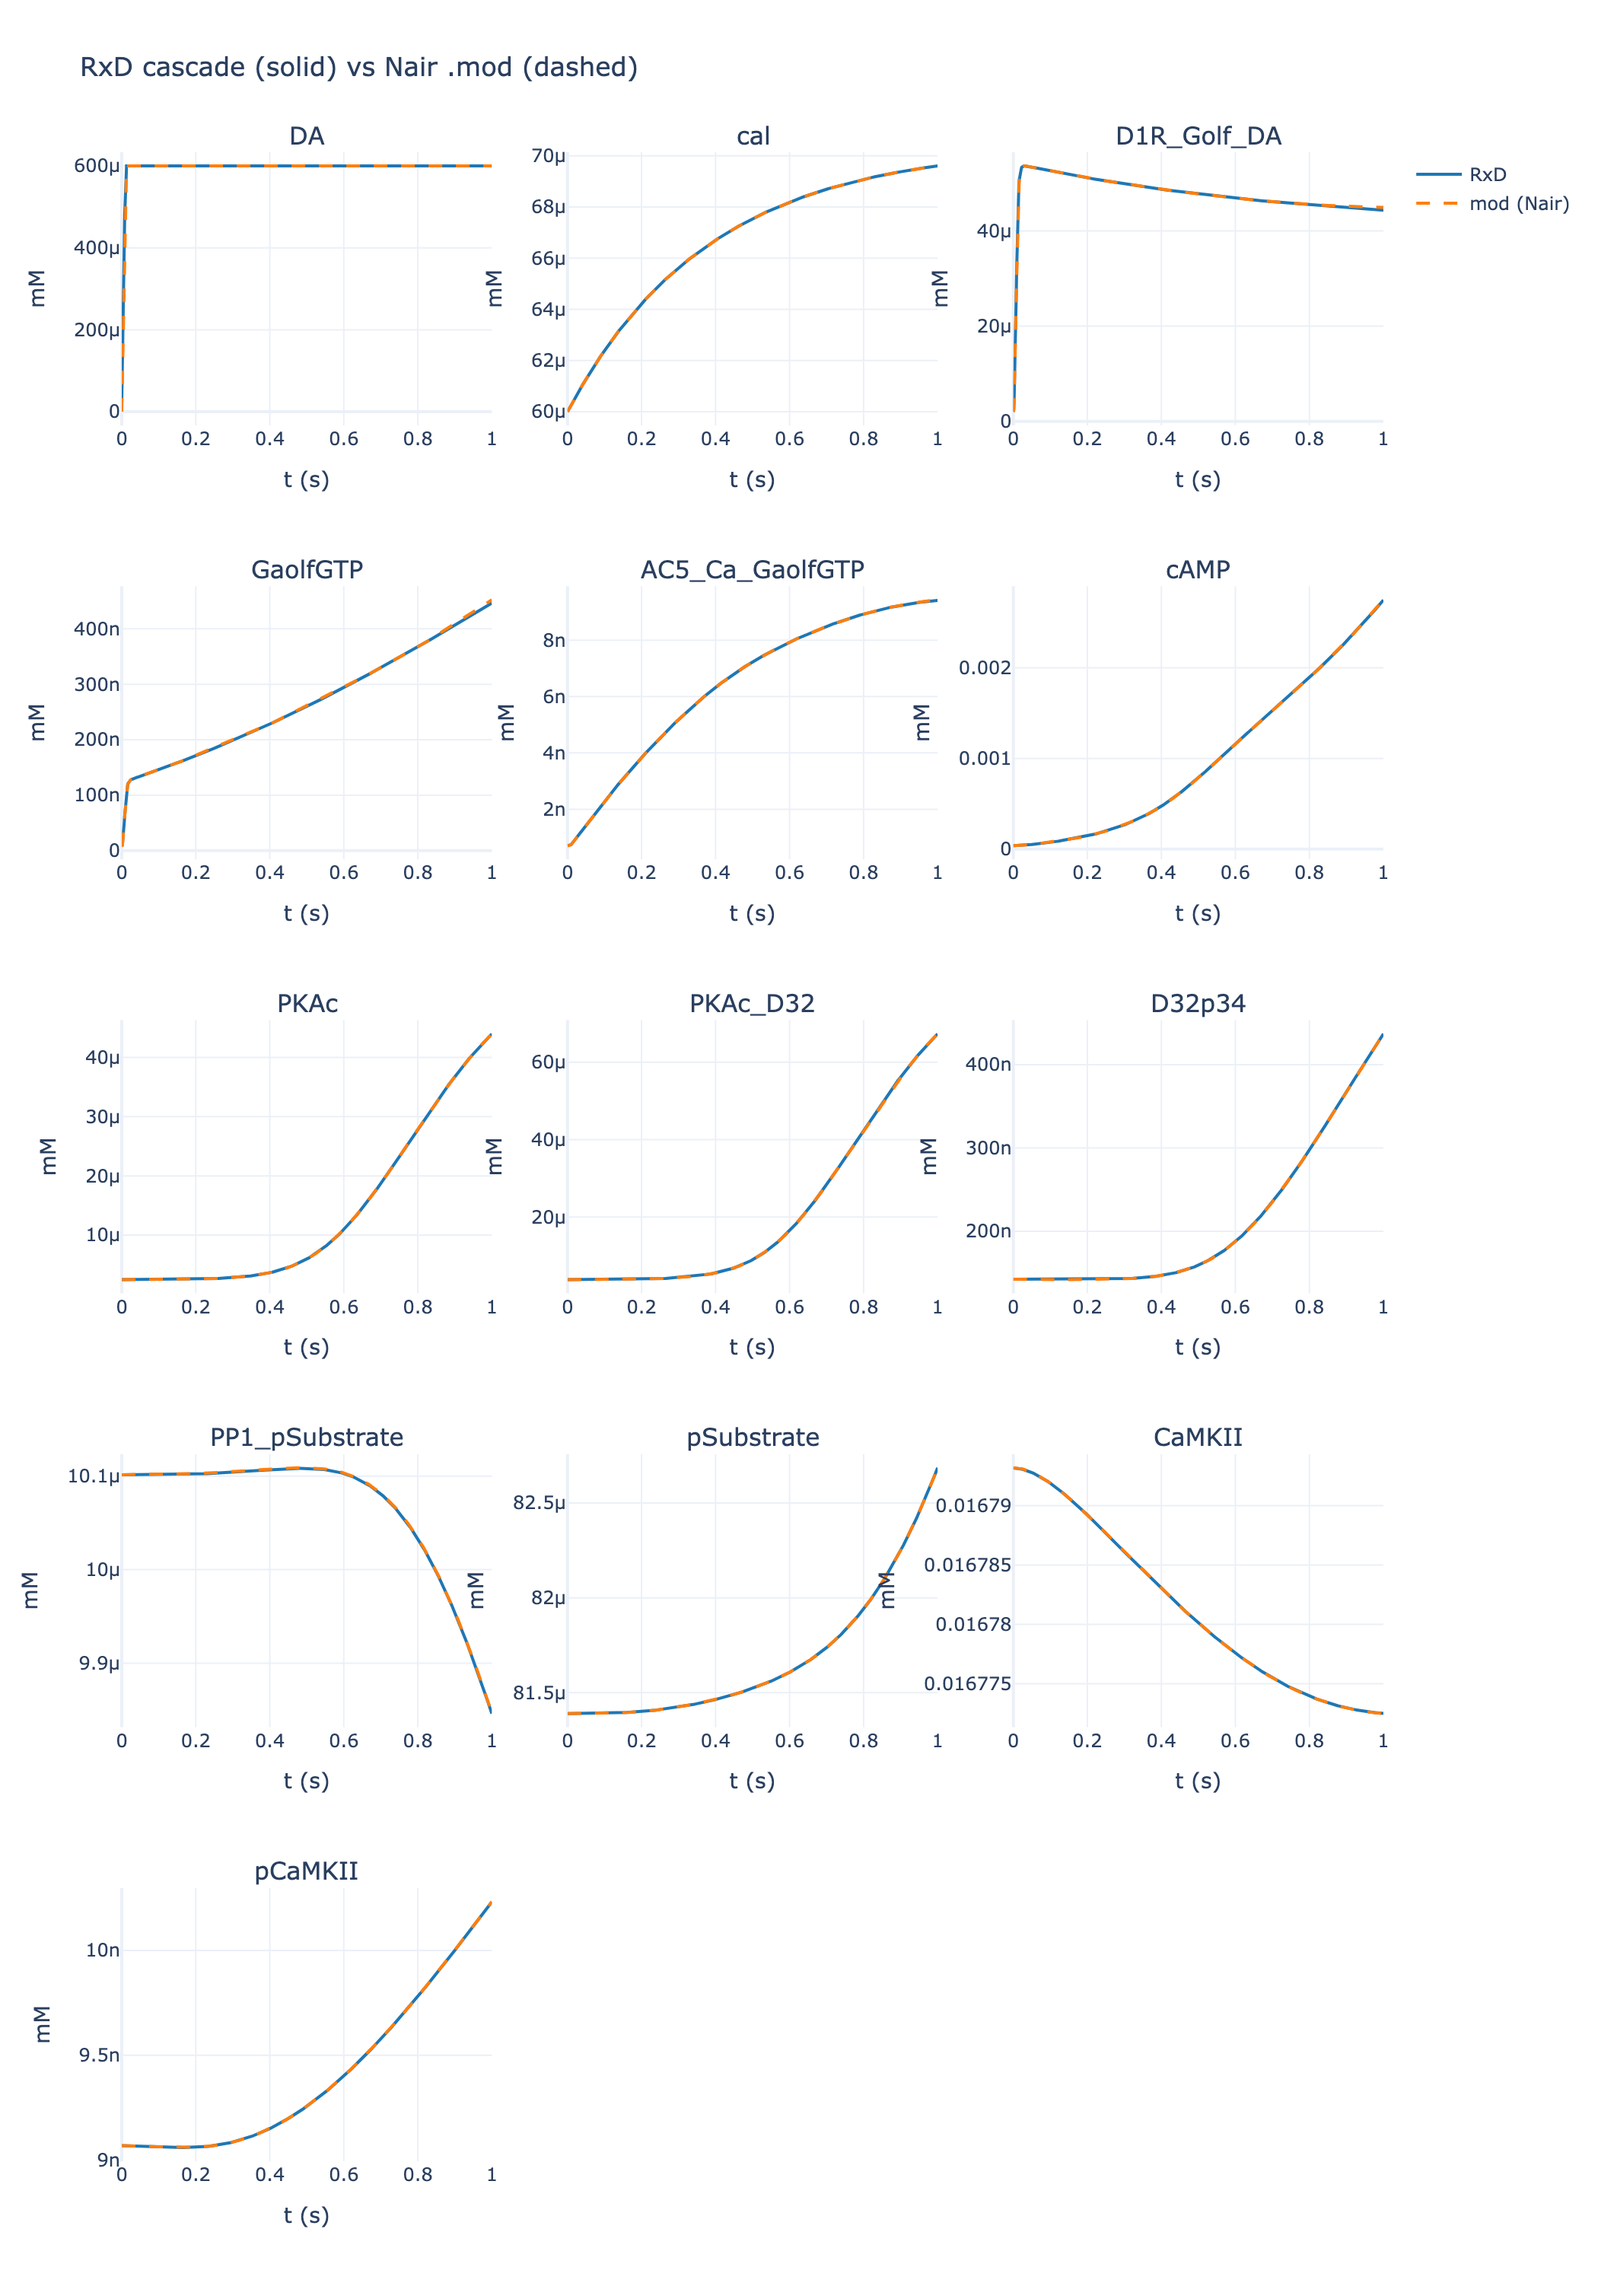
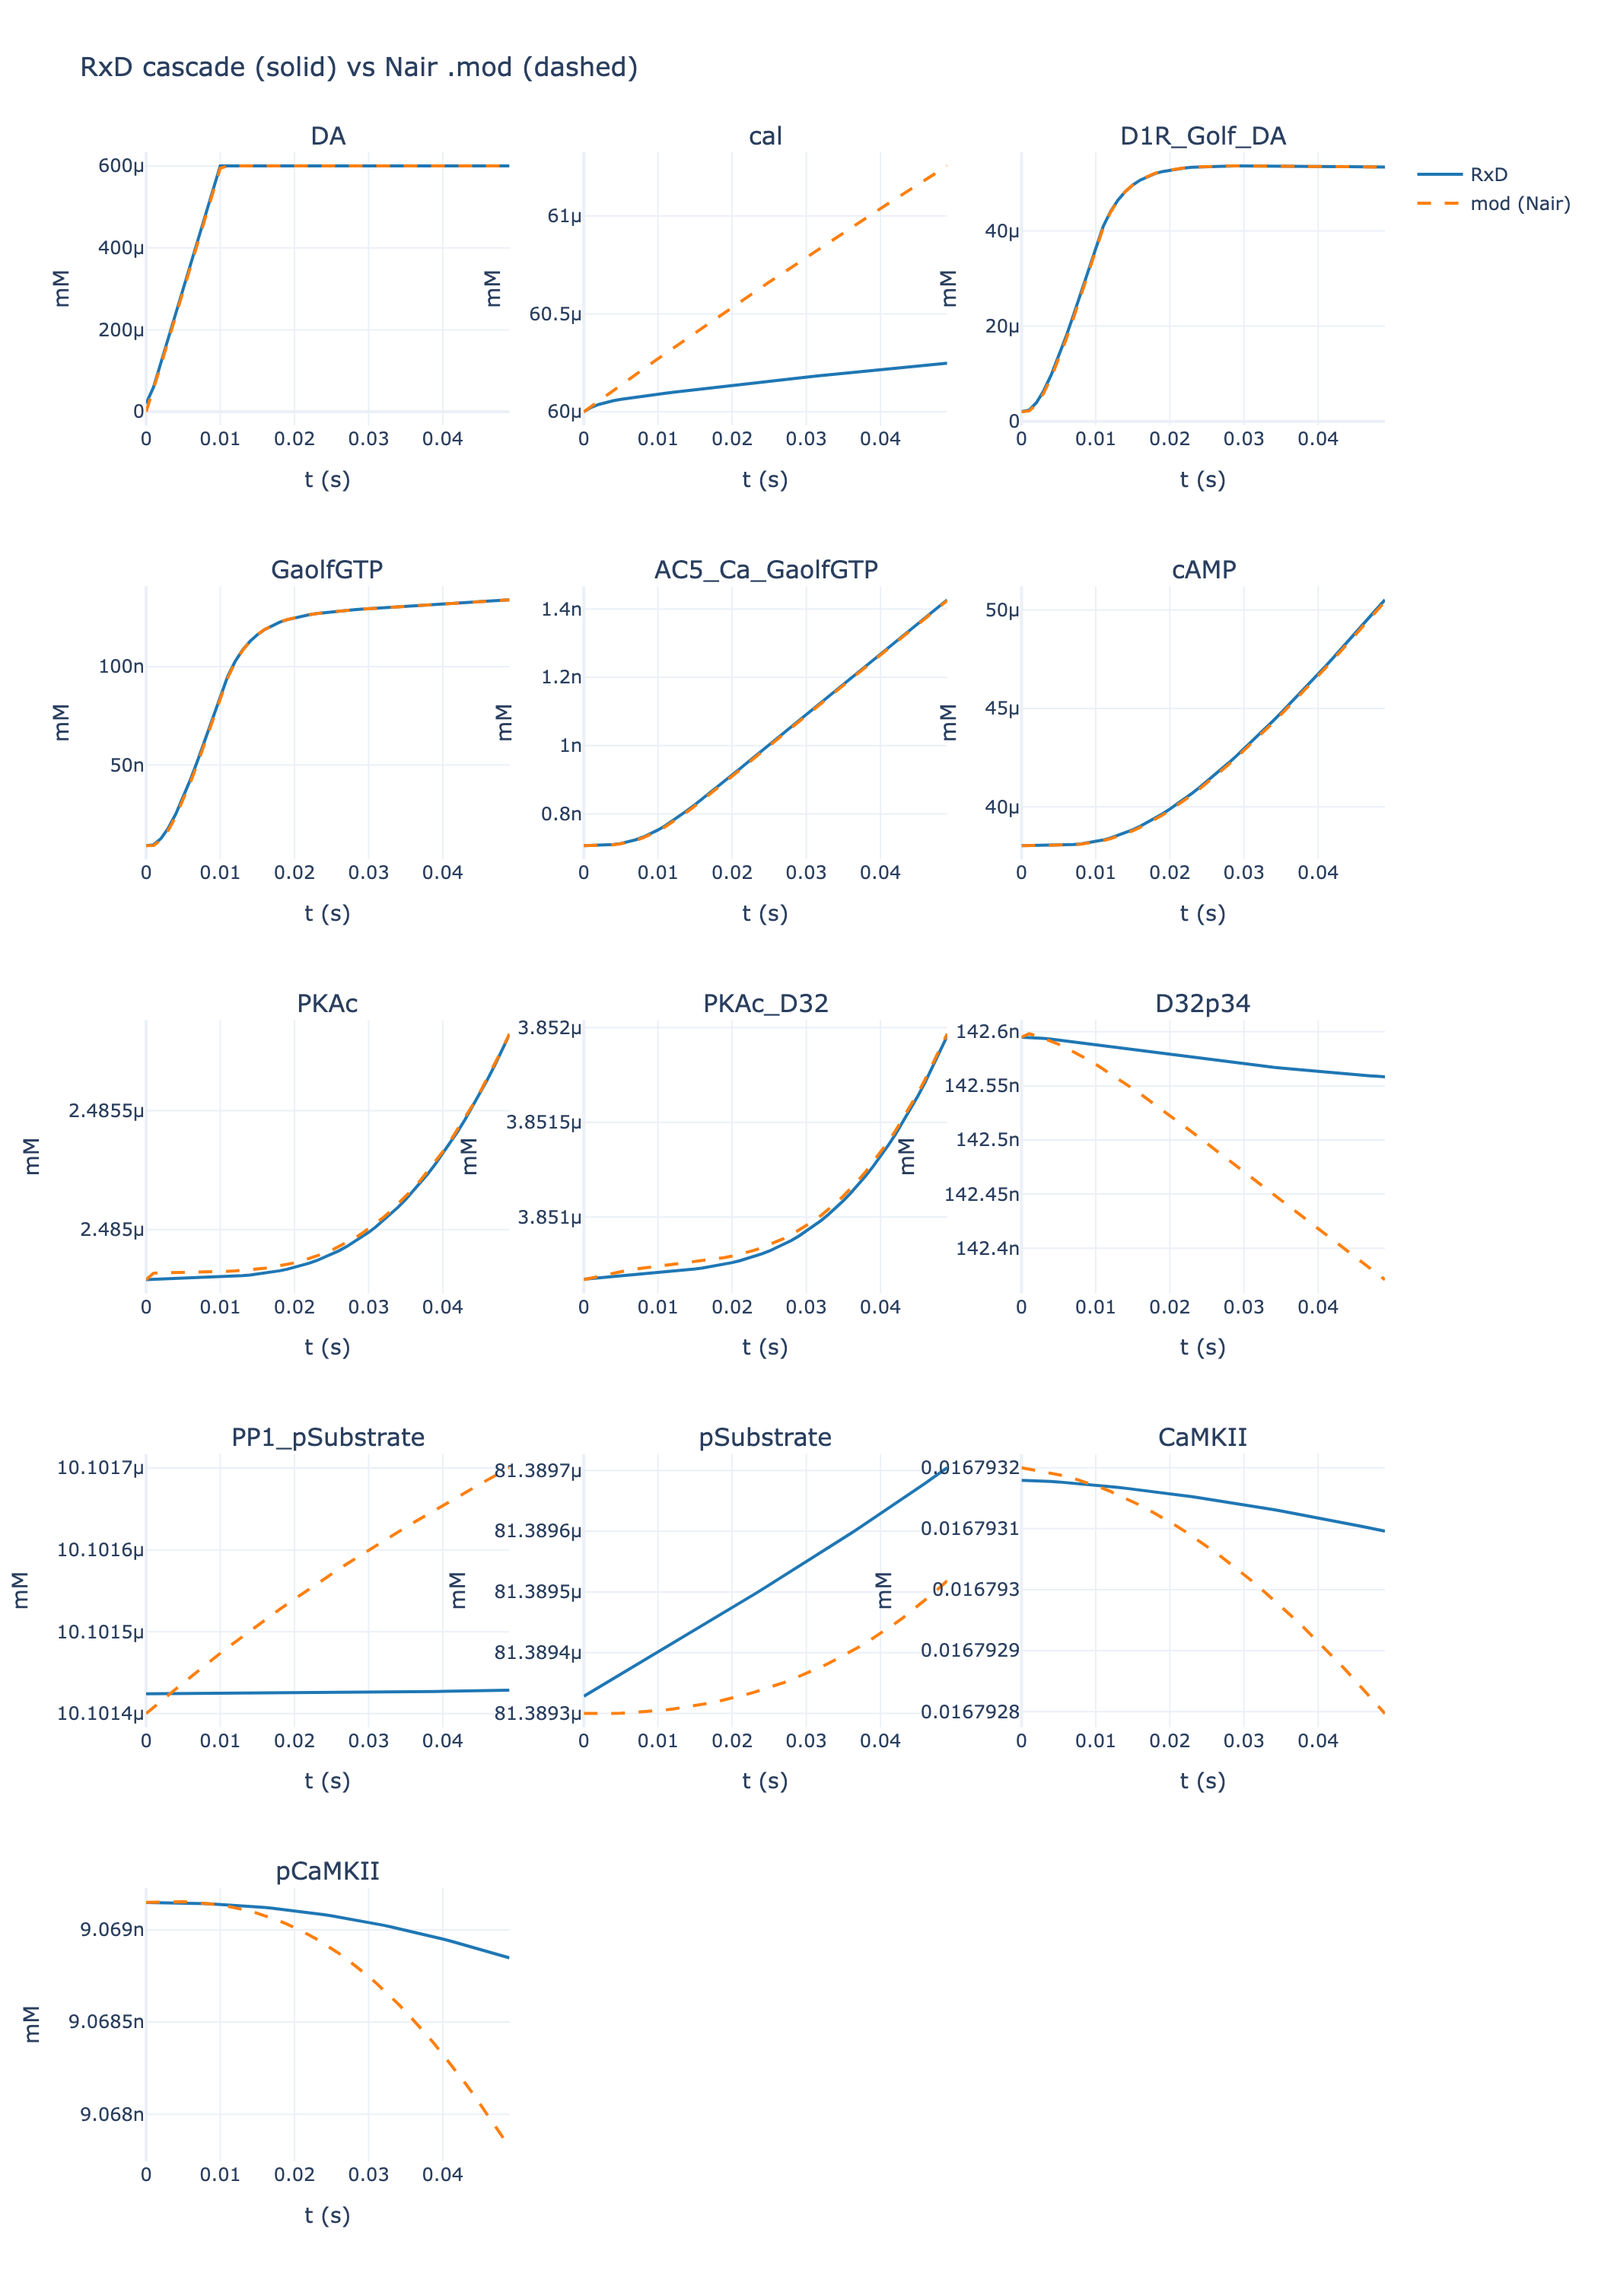
updated README

diff --git a/virtual_experiments/figureS1-mod/setup_networks.py b/virtual_experiments/figureS1-mod/setup_networks.py
@@ -3,9 +3,14 @@
   networks/rxd     — full RxD cascade computes PKAc from bath DA
   networks/mod     — DA+cal RxD bath; Nair_2016_optimized.mod (METHOD euler)
   networks/mod_di  — DA+cal RxD bath; Nair_2016_optimized_di.mod (derivimplicit)
-  networks/mod_ptr — DA+cal RxD bath; Nair_2016_optimized_ptr.mod (derivimplicit
-                     + POINTER-based read/write back to RxD nodes so the cascade's
-                     Ca/DA consumption feeds into the mass balance)
+  networks/mod_ptr — DA+cal RxD bath; Nair_2016_optimized_ptr.mod (METHOD euler
+                     + POINTER-based read of the RxD nodes, writing the cascade's
+                     Ca consumption back so it feeds into the mass balance. DA is
+                     read-only: it is bath-clamped, so the RxD reference does not
+                     deplete it either.)
+
+mod_ptr cannot be run via `snudda simulate` (the CLI does not wire POINTERs);
+use run_mod_ptr.py instead.
 """
 import os
 from snudda import Snudda

diff --git a/virtual_experiments/figureS1-mod/README.md b/virtual_experiments/figureS1-mod/README.md
@@ -1,23 +1,38 @@
 # RxD vs. an equivalent .mod-implementation
 This segment demonstrates how to use .mod files for reaction scheme implementations instead relying on RxD's internal solver.
 
-In this example, we implement the D1R cascade (Nair 2016) as a membrane mechanism, but keep dopamine and calcium as RxD variables. (Dopamine and calcium are read only in the membrane mechanism, so there is no risk of write conflicts.) This way, we can use RxD for variables that needs transmembrane fluxes, axial diffusion, etc.
+In this example, we implement the D1R cascade (Nair 2016) as a membrane mechanism, but keep dopamine and calcium as RxD variables. This way, we can use RxD for variables that needs transmembrane fluxes, axial diffusion, etc.
 
-The same cascade is provided in two `.mod` flavours that differ only in their integrator:
+Dopamine is read-only in every variant, so it can never be in contention: it is declared `boundary_condition: true`, which makes Snudda instantiate it as an `rxd.Parameter` (a bath clamp), and the RxD reference does not deplete it either. Calcium is read-only in the two USEION variants, but the POINTER variant writes to it — see below.
 
-| file                          | SUFFIX                     | SOLVE method     |
-|-------------------------------|----------------------------|------------------|
-| `Nair_2016_optimized.mod`     | `Nair_2016_optimized`      | `euler`          |
-| `Nair_2016_optimized_di.mod`  | `Nair_2016_optimized_di`   | `derivimplicit`  |
+The same cascade is provided in three `.mod` flavours:
+
+| file                          | SUFFIX                     | SOLVE method | cal input      | writes cal back |
+|-------------------------------|----------------------------|--------------|----------------|-----------------|
+| `Nair_2016_optimized.mod`     | `Nair_2016_optimized`      | `euler`      | `USEION cali`  | no              |
+| `Nair_2016_optimized_di.mod`  | `Nair_2016_optimized_di`   | `derivimplicit` | `USEION cali` | no             |
+| `Nair_2016_optimized_ptr.mod` | `Nair_2016_optimized_ptr`  | `euler`      | `POINTER ca_ref` | yes           |
 
 `euler` is faster but less exact; `derivimplicit` does a Newton step per `dt` and is the most accurate first-order option NEURON offers for stiff systems. Running both lets us separate solver error from any other source of divergence vs. the RxD reference (e.g. ordering of `assign_calculated_values()` relative to `SOLVE`, RxD's spatial discretization, etc.).
+
+### The POINTER variant and calcium mass balance
+
+The two USEION variants read `cali` but never consume it, whereas in the RxD reference the cascade genuinely buffers calcium — 15 reactions (`ReactionFlux{5,16,24,25,26,28,54,73,74,75,76,115,116,123,124}`) take `cal` as a reactant. The mod branches use `reaction_diffusion_DA_only.json`, which declares no reactions at all, so that sink is simply absent. At small distal volumes this is the dominant source of divergence from the reference.
+
+`Nair_2016_optimized_ptr.mod` restores it. It reads `cal` through a `POINTER` aimed straight at the RxD node's `_ref_concentration`, and each step writes the net cascade consumption back through the same pointer (`ca_ref = ca_ref + ca_rate * dt`, with `ca_rate` summing exactly those 15 flux terms).
+
+This is a write, but not a contended one. `caldyn_ms` runs with `use_rxd_caldyn_ms = 1.0` in both branches (set via `modulation_key = "abc"`), so it emits `ical` rather than integrating `cali` itself, and RxD owns the `cal` state. The two contributors are therefore disjoint physical terms — RxD applies transmembrane flux, the mechanism applies cascade buffering — rather than two writers fighting over one quantity.
+
+The real cost is operator splitting: the mechanism's write and RxD's own advance happen sequentially within a timestep instead of being solved together, which is first-order in `dt` and sensitive to their ordering. `plot_error_distal.py` quantifies what that costs.
+
+Dopamine is deliberately *not* written back. Since it is bath-clamped in both branches, adding a `da_ref` write would introduce a sink the reference does not have, and — because an `rxd.Parameter` node is never restored by a solver — the error would compound every step. If DA is ever unclamped (`boundary_condition: false`), the correct term is `da_rate = -(R2 + R3)`; `R1` and `R68` mention DA but keep it bound.
 
 ## Running the example
 The `.mod` file is generated from the SBtab spec in `sbtab_source/`
 >>> SbTAB conversion goes here <<< (+ description if manual edits are needed)
 
 ```bash
-python setup_networks.py                                # builds networks/{rxd,mod,mod_di}
+python setup_networks.py                                # builds networks/{rxd,mod,mod_di,mod_ptr}
 
 # For demo purposes, we create a new folder of mechanisms that includes the new .mod.
 mkdir -p mechanisms
@@ -37,8 +52,14 @@ snudda simulate networks/mod    --simulation_config sim_mod.json \
 snudda simulate networks/mod_di --simulation_config sim_mod_di.json \
     --mechdir mechanisms --enable_rxd_neuromodulation
 
+# Run the POINTER variant. `snudda simulate` cannot wire POINTERs, so this one
+# goes through a driver script that calls h.setpointer between setup() and run().
+python run_mod_ptr.py
+
+# todo: this 
 python plot_compare.py                                  # → compare_rxd_vs_mod.{png,html}
 python plot_compare_distal.py                           # → compare_rxd_vs_mod_distal.{png,html}
+python plot_error_distal.py                             # → error_rxd_vs_mod_distal.{png,html}
 ```
 
 ## Wall-clock cost
